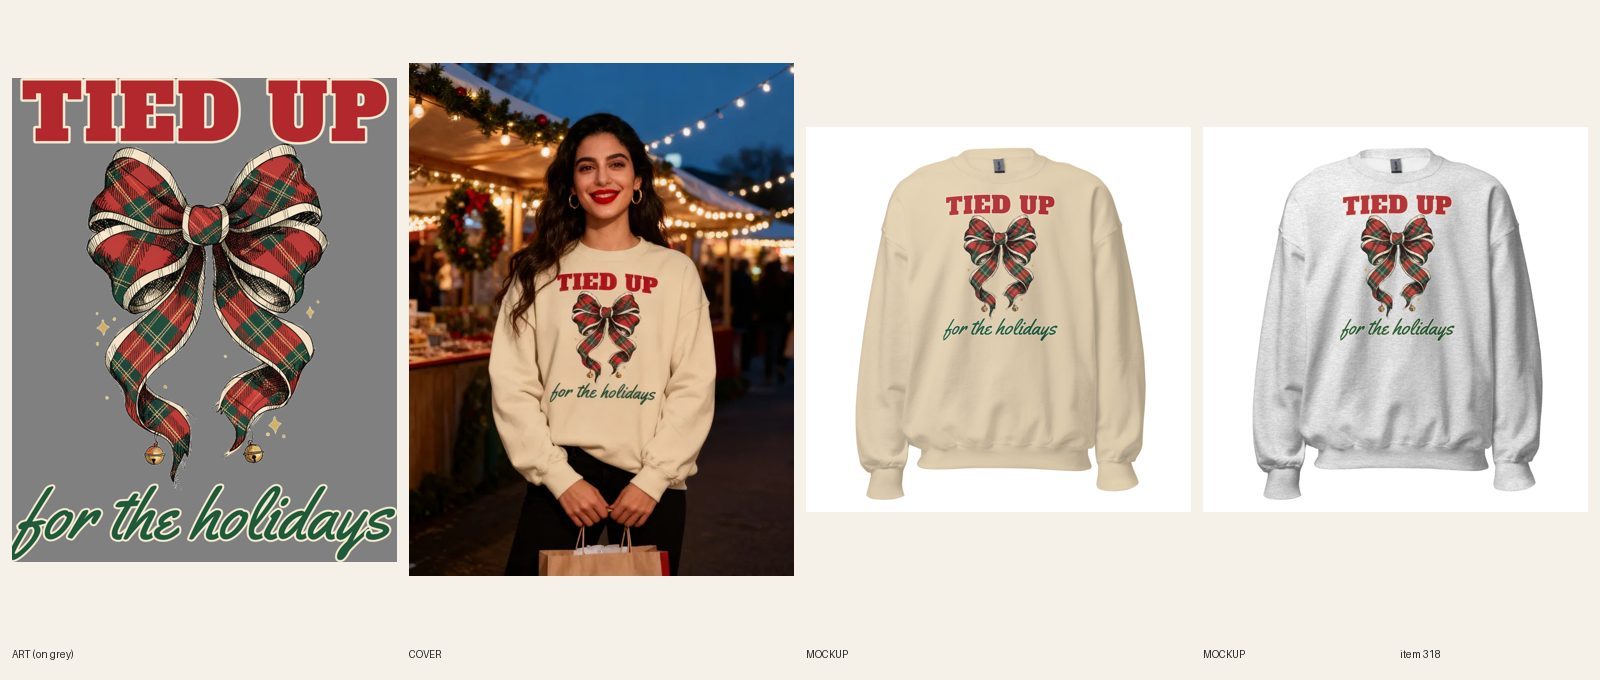
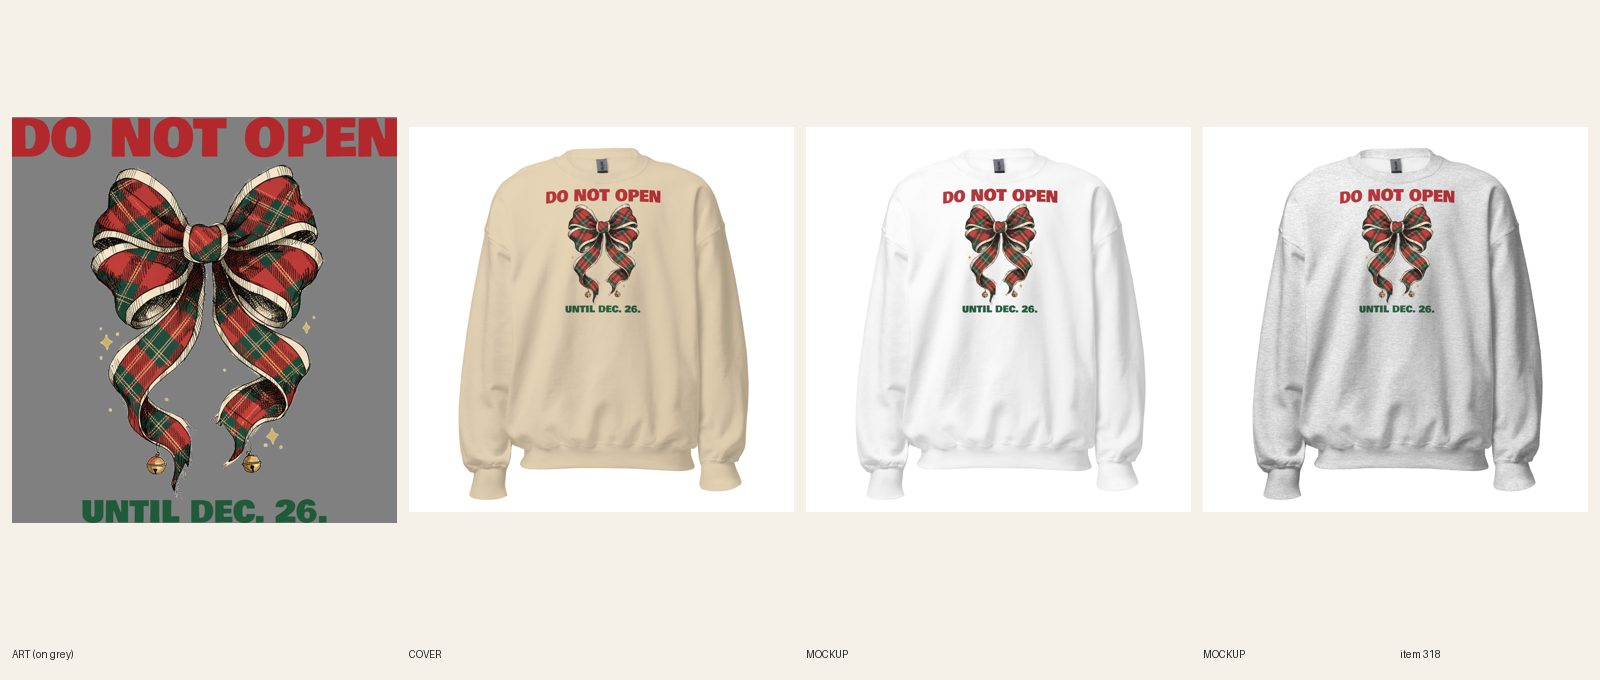
[B] review 318 Do Not Open Until Dec. 26 bow crewneck (line + type redo)

diff --git a/docs/intake-log.md b/docs/intake-log.md
@@ -1,5 +1,6 @@
 2026-10-20 04:46 UTC — [H] Helper run: Telegram inbox empty (getUpdates returned 0 updates; nothing to consume). Audit 607 live products: 0 errors, 31 warnings left alone (polish); committed docs/cohesion-audit.md. Category check: 0 products without a Shopify category. Site check: #548, #578, #618 all 200. Stuck-work check: nothing BUILDING over 3h (#257 and #258 claimed 04:07); lane A lock line from 02:28 is over 2h old but lane A committed at 04:06, so Telegram alert sent once (reply pending from Sam). Daily summary not due (before 12:00 UTC). Lock released.
 2026-10-20 04:29 UTC — [D] Director run (RESUMED). LIVE 6 (cap): #477 #481 #501 #558 #579 #632 (approved 02:16 and held; all already ACTIVE on Online Store, Headless, Google & YouTube; audit --handle PASS 0 warn each). Reviewed 20 new redo sheets side by side with 493 and 483: approved and held 15 (#221 #237 #246 #251 #252 #323 #365 #386 #395 #409 #443 #552 #554 #561 #635); REDO 5: #362 #404 #440 (punchline set at 45–60% of the headline's width; new rulebook line under R3.7.8, 4 hits in one run), #366 (SHELLFISH sound-alike pun, R3.1), #388 (empty calendar boxes read as free, R5.3.4). Shopify: 9 approved redos retitled to their printed lines (#221 #237 #246 #251 #252 #323 #552 #554 #561, handles unchanged) and 3 metas trimmed under 155 (#323 #554 #561). Inbox (Sam's Black Friday order): /black-friday/ built and live (200; 8 A-grade doorbusters, 5 FAQs, schema), linked from the sale banner, footer and gift guides; sweatpants audit support + rulebook lines + 5 lane C briefs #711–#715 (builder card: ahead of lane C REDOs, one per run). Telegram: one message to Sam with the page link and two decisions (the Black Friday deal; a 10% set discount). No digest (not due). READY: A 12, B 12, C 12 (+5 sweatpants), E 12. Helper note: `astro check` reports 2 duplicate keys in src/data/covers.ts (mens-pirate-pillaging-is-a-young-mans-game-hoodie line 419, womens-crochet-no-i-wont-make-you-one-hoodie line 564); the build passes, but the later entry silently wins. Held for next runs, in order: #649 #205 #217 #219 #326 #356 #358 #650, then the 15 above, then the 31 add-ons. Lock released.
+2026-10-20 04:50 UTC — [B] Builder run: redid #318 Women's Christmas bow crewneck (line + type: DO NOT OPEN / UNTIL DEC. 26., same tartan bow art, Bowlby One, 4 light colors one dark-ink file, 24/24 synced). REVIEW. fal $0.
 2026-10-20 04:41 UTC — [B] Builder run: redid #396 Women's Western crewneck (line + type: PINKIES UP, / SPURS ON., same teacup art, Rye, Navy + Sand light files, 12/12 synced). REVIEW. fal $0.
 2026-10-20 04:45 UTC — [E] Builder run: redid #514 Unisex Pitbull crewneck (line + type: DANGEROUS ONLY TO YOUR SNACKS., new belly-up pit bull art, dark-ink file on Sand + Sport Grey, 12/12 synced, copy updated, plain product shot). REVIEW. fal $0.04.
 RUNNING director since 2026-10-20 04:12 UTC

diff --git a/docs/pipeline/318-christmas-tied-up-for-the-holidays-crewneck.md b/docs/pipeline/318-christmas-tied-up-for-the-holidays-crewneck.md
@@ -1,4 +1,4 @@
-status: REDO
+status: REVIEW
 lane: B
 type: new
 id: 318
@@ -29,3 +29,4 @@ kd: 53
 - 2026-10-17 22:33 UTC builder [B]: synced 24/24. REVIEW. Sheet docs/review/318.jpg. Audit clean except draft state; variant-photo audit clean. fal spend this item ~$0.16.
 - 2026-10-17 22:43 UTC director: APPROVED, LIVE. ACTIVE + Online Store, Headless and Google & YouTube; audit --admin-json PASS (0 warn) after a director copy polish (SEO title ≤60; R8 keyword count; no hand-lettered claim).
 - 2026-10-18 17:22 UTC director: QUALITY RESET grade C (new line + type), REDO. The product stays ACTIVE (same handle, URL, title keyword). 1. Line (R3.12, quality-reset 'Lines'): "TIED UP / for the holidays": Mild bow pun describing art; also thin script below. Write 5 candidates, keep the one a stranger laughs at in 3 seconds without backstory; kill lines that only describe the picture; if none of the 5 is funny, PARK it. 2. Quality reset type bar (docs/backlog/quality-reset.md, 'The new bar'): headline at least 90% of the art width, heavy, colors pulled from the art; second line at least 45% of the headline's height, never a thin script on a dark or mid garment; use the lettering as a shape (arch, stacked lockup, words breaking into the art), not a plain bar above and a script line below; no font used on more than 1 in 6 of the last 30 designs. 3. Keep the art if it carries the new line, else one new illustration (R4/R5). New print means a new cover per R6.10, copy line one rewritten for the new joke (R8.3), and a fresh review sheet (R7.7). While quality-reset.md says PAUSED, only lane A builds, and only the samples step 2 names.
+- 2026-10-20 08:35 UTC builder [B]: REDO 318 (C grade, line + type) done in place (stays ACTIVE, handle unchanged; title now "Women's Christmas – Do Not Open Until Dec. 26 Crewneck Sweatshirt"). 5 candidates: "DO NOT OPEN / UNTIL DEC. 26."; "Booked Through January"; "Tied Up. Politely Declining."; "Unwrap Me In January"; "Gift Wrapped, Emotionally Unavailable". Kept DO NOT OPEN / UNTIL DEC. 26. (the bow makes her the gift; the wrapped-present label is the joke, an outsider gets it in 3 seconds). Same tartan bow art, no fal ($0). Bowlby One headline 160% of art width, second line 60% of headline height. All four colors (White, Sand, Light Pink, Ash) are light blanks: ONE dark-ink file (headline red, second line green; files White 1090169399 / Sand 1090169409 / Light Pink 1090169592 / Ash 1090169595, same print; light file logged). FW 1650 TOP 0 (crewneck, 12 in tall). 24/24 synced on the new file per color, back logo kept. Fronts + back replaced in place, alts, title, SEO, copy, FAQs updated. Phone-size read OK on all four. Cover: handle added to retired-covers.json. audit --handle PASS 0 warn. Sheet docs/review/318.jpg. Note: the tee twin #319 still carries TIED UP; the director can decide whether to redo it to match.
